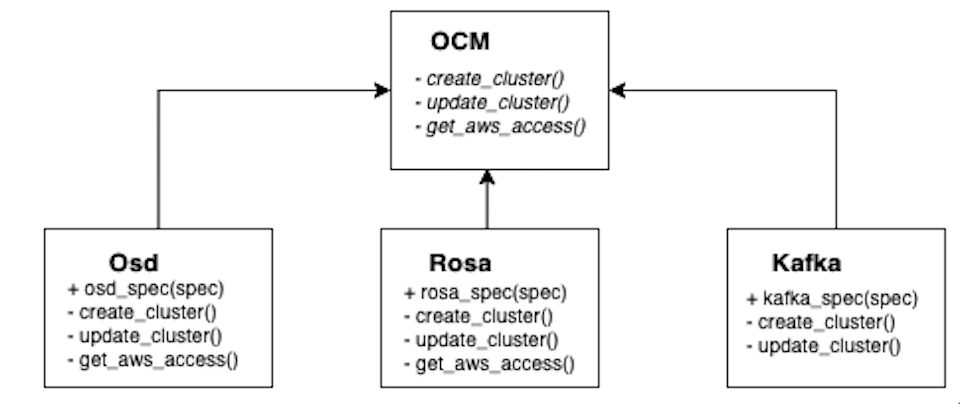
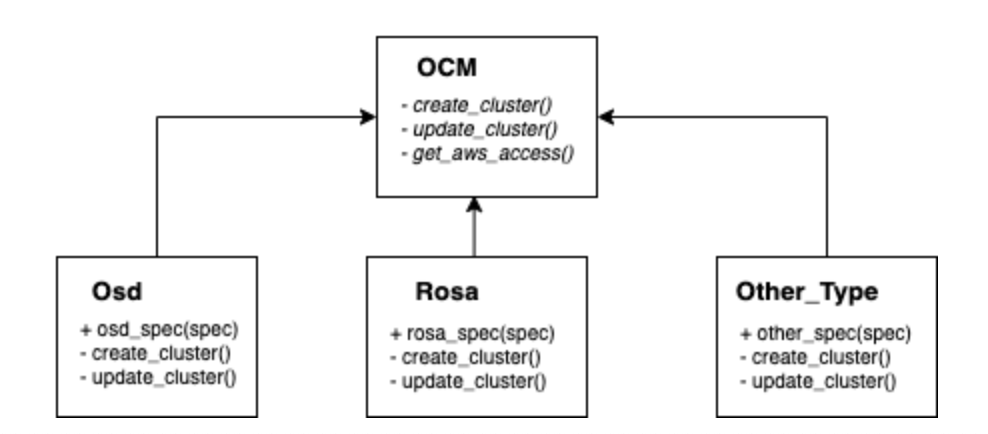
Remove context information

Changed region(s): [[0.0312, 0.0, 1.0, 0.9802], [0.625, 0.0297, 0.6562, 0.0594]]

diff --git a/docs/app-sre/design-docs/app-interface-rosa-support.md b/docs/app-sre/design-docs/app-interface-rosa-support.md
@@ -13,14 +13,8 @@ Jordi Piriz / 2022-04-18
 ## Problem Statement
 
 As part of hypershift support, we need to be able to support openshift ROSA clusters through
-app-interface.
-
-ROSA deployment model uses the customer account to provision all the openshift components
-(both control plane and data plane). Clusters' provisioning and administration are based on the
-`ROSA cli` tool along with `OCM`.
-
-App-interface only supports `OSD` clusters with the current implementation. Some enhancements are
-needed to support `ROSA` clusters.
+app-interface. Our current `OCM` code only supports`OSD` type clusters. Some enhancements are
+needed to support `ROSA` or other cluster types.
 
 ## Goals
 
@@ -30,113 +24,15 @@ needed to support `ROSA` clusters.
 ## Non-Goals
 
 - Define Hypershift topology/deployments
+- ROSA clusters deployment through app-interface. As OCM team is actively working on supporting ROSA
+  deployments entirely. The cluster creation part will be set on hold until they finish. Clusters creation
+  will be covered in an additional design doc if applies.
 
-## ROSA provisioning details
-
-### ROSA Installation overview
-
-As `ROSA` supports STS operational mode which does not interfere with app-interface in any way, we are going
-to support this operational model only. This does not prevent using additional access keys by the services
-if needed.
-
-Steps to provision a `ROSA`cluster. All Steps are subcommands of `ROSA cli`.
-
-1. Configure AWS Account
-
-    The account where the cluster is going to be deployed needs some configuration like creating the IAM
-    roles for the cluster installation along with some Quotas and Service Control policies verifications.
-
-2. Launch Cluster Installation.
-
-    Cluster Installation is orchestrated from `OCM` but the installation request and some additional steps
-    need `ROSA cli`. `OCM` is being improved right now to support `ROSA` and it's possible `ROSA` could be
-    fully managed through `OCM` in the future.
-
-3. Pre-Installation Steps
-
-    These steps are created just after the cluster creation request. Cluster installation waits until these steps
-    are done.
-
-        - Create an OIDC provider. An OIDC provider is required for STS/openshift authentication.
-        - Create the operator Roles. RedHat operator roles that will be used by RH to support the cluster.
-
-4. Create the admin user
-    The first admin user needs to be created with `ROSA cli`. An auth provider can be bound to the cluster
-    to add user/roles too.
-
-### Cluster configuration changes
-
-Cluster configuration changes are a bit different than in `OSD`, for example, load balancers quota or storage
-assignment do not apply to `ROSA` as all the components reside in the customer AWS account. The following list
-enumerates the app-interface allowed cluster updates and if they are supported with `ROSA`
-
-- instance_type: This is supported in our ocm code but does not seem possible without creating a new machine pool
-  as described [here](https://docs.openshift.com/dedicated/osd_cluster_create/creating-an-aws-cluster.html)
-- storage (Quota): N/A. The customer account provides the storage.
-- load_balancers (Quota): N/A. Load balancers are deployed in the customer account
-- private: Not supported in ROSA. After cluster creation, a cluster can not be changed to private
-- channel: Supported. Updates are managed through `OCM`. We will use our current updates system
-- autoscale: Supported (OCM)
-- nodes(nodeCount): Supported (OCM)
-- machinePools: Supported (OCM)
-
-**IMPORTANT**: All the cluster modifications are available through `OCM`.
-
-### Clusters location
-
-We should consider using a separate AWS account to host our `ROSA` clusters. Splitting workloads into separate
-accounts is a good and recommended practice from a security point of view. Taking into account that we will barely
-need to access cluster infrastructure resources, deploying clusters in a separate aws account other than the AppSre
-main account makes sense.
-
-`ROSA` recommendation is to install one cluster per vpc but is possible to share a vpc among various clusters
-using different subnetworks. As VPC quota can be increased to hundreds, 1 cluster per vpc is the way to go
-for us. It simplifies the network configuration.
-
-Even though it's possible, having multiple clusters per account adds complexity in the AWS resource permissions
-management. For example, tenants access to Cloudwatch in shared accounts would need to be improved to efficiently
-separate access to logroups of other tenants. This can be extended to all the resources in the accounts.
-2
-For coherence and to continue using the same approach, we will use a cluster per account like in OSD. Accounts
-do not add additional costs and we would have the resources isolation without the need of changing the permissions
-management.
-
-## APP Interface management
-
-### Cluster Installation
-
-`ROSA` installation `OCM` support is being improved right now, there were changes in the process even while
-writing this doc.
-
-As we need to do a cluster onboarding to support new clusters, the most logical approach is to use `ROSA cli`
-**manually** and once the cluster is created, add the cluster spec file and manage the cluster operations through
-app-interface. Adding machinepools, changing nodecount or changing autoscaling values are available with `OCM` and
-that is already implemented in app-interface.
-
-There are various paths forward to implement the cluster creation such as adding golang integration leveraging
-the `ROSA cli` codebase or creating a `ROSA cli` wrapper integration. But, as it seems `OCM` will end up supporting
-the whole process, we could just hold off and wait until the `OCM` support is completed.
-
-If we have the urge to provision a lot of clusters we can re-evaluate this approach.
-
-### Roles
-
-ROSA works the same way as `OSD`. `cluster-admin` and `dedicated-admin` exist in the cluster.
-
-### Schema changes
-
-- Convert `Cluster` type to an interface. As `OCM` supports various types of cluster types and there is a need in AI
-  to support some of them, it's worth having diferentiated specs for each cluster type. We will have `OSD` and `ROSA`
-  but this could be extended with future offerings (Hypershift, KCP...), so adding separate types makes sense at
-  this point.
-
-- Add a `product` attribute to identify the cluster type. `product` is already part of `OCM` api spec and is used to
-  identify the cluster type. We could use the same approach in our cluster specs. This attribute will be used to identify
-  the graphql subtypes and to instantiate the right OCM implementation.
+## Proposals
 
 ### OCM code changes
 
-Our OCM code is very tight to OSD-type clusters. Some changes are needed:
+Our OCM code is very focused to OSD-type clusters. Some changes are needed:
 
 - Getting the clusters spec: Our current approach takes `OSD` related fields as mandatory but those are
   not set in `ROSA` or other types.
@@ -157,54 +53,66 @@ The code changes to do this seems located in the `ocm.py` file, the integrations
 the `OCM_Map` class. This needs a more deep view but at first, seems that with the clusters' initialization
 an additional object could be set to add the product implementation object.
 
-Kafka clusters are a good candidate for an additional cluster type, right now they are managed separately with
-its integration and schema. But in the end, they are an additional cluster type and from a model point of
-view, it would be more precise to manage them as clusters and let the implementation do the required steps.
-
 About the AWSInfrastructureAccess, as the accounts are managed by us, we could mimic how we are managing
 `OSD` aws accounts. Creating both `read-only` and `network-mgmt` roles in the destination account and adding
-the IAM policies when new accesses need to be granted. This logic will need to use `AWScli` instead of `OCM`.
-Following this path, all terraform integrations that use the role assumptions will still work the same way as
-of now.
+the IAM policies when new accesses need to be granted. There are 2 things to consider.
+
+1.- Users access to the account. These accesses will be managed by app-interface through aws groups and the
+  terraform-users integration.
+2.- Terrafom integrations will leverage the `assume-role` feature to get the `network-mgmt` role in the account.
+  This approach has been used in Fedramp.
 
 <img src="../assets/rosa_ocm_diagram.png" width="600"/>
 
-#### Alternatives considered
+### Schema changes
 
-##### Conditional branching
+- Convert `Cluster` type to an interface. As `OCM` supports various types of cluster types and there is a need in AI
+  to support some of them, it's worth having diferentiated specs for each cluster type. We will have `OSD` and `ROSA`
+  but this could be extended with future offerings (Hypershift, KCP...), so adding separate types makes sense at
+  this point.
+
+- Add a `product` attribute to identify the cluster type. `product` is already part of `OCM` api spec and is used to
+  identify the cluster type. We could use the same approach in our cluster specs. This attribute will be used to identify
+  the graphql subtypes and to instantiate the right OCM implementation.
+
+### Clusters location
+
+ROSA clusters will be set in dedicated aws account to host this clusters. Each cluster will be deployed in its own VPC.
+
+### OCM Integrations summary
+
+- ocm_additional_routers: Not supported in ROSA. ROSA clusters will be excluded from this integration
+- ocm_addons: Supported. No changes needed.
+- ocm_aws_infrastructure_access: N/A to ROSA. ROSA clusters will be excluded from this integration.
+- ocm_clusters: This integration will be changed to use product specific OCM code.
+- ocm_external_configuration_labels: Supported. No changes needed
+- ocm_github_idp: Supported. No changes needed.
+- ocm_groups: Supported. No changes needed.
+- ocm_machine_pools: Supported. No changes needed.
+- ocm_upgrade_scheduler: Needs to be updated to support STS version gates. [REF](https://github.com/app-sre/qontract-reconcile/blob/master/reconcile/utils/ocm.py#L856)
+
+## Alternatives considered
+
+### OCM code conditional branching
 
 A possible way is to branch the code with if/else and manage `ROSA` clusters with additional paths. I consider this
 a bad design as all the code would need to be modified if a new cluster type needs to be supported in the future.
 On the contrary, adding separate implementations leads to a clean approach and adds maintainability to the code.
 
-##### Separate methods in the OCM module
+### Separate methods in the OCM module
 
 Such as kafka clusters, managing `ROSA` with additional methods is a viable way. I think it's better for the sake of
 code comprehension, maintainability and coherence to just have different types under the cluster meta type with its
-separate implementations. Following this path does not completely fit, because not all `ROSA` required logic is
-implemented or brought by OCM.
-
-### Current OCM integrations
-
-- ocm_additional_routers: Not supported in ROSA.
-- ocm_addons: Supported
-- ocm_aws_infrastructure_access: Implement the same roles as in OSD, network-mgmt, and read-only.
-- ocm_clusters: Split integration to per-cluster type.
-- ocm_external_configuration_labels: Supported.
-- ocm_github_idp: Supported. We could use the same approach as in OSD.
-- ocm_groups: Supported. dedicated-admin could be assigned the same way.
-- ocm_machine_pools: Supported
-- ocm_upgrade_scheduler: Needs to be updated to support STS version gates. [REF](https://github.com/app-sre/qontract-reconcile/blob/master/reconcile/utils/ocm.py#L856)
+separate implementations.
 
 ## Decissions made
 
 - Cluster installation logic will be set on hold until the OCM implementation is done.
-- We will use 1 AWS account per cluster like in OSD. This way we will have the clusters isolated.
-- We are going to manage the clusters with the same roles we are using for `OSD`. `dedicated-admin` and `cluster-admin`
-- Aws infra access logic will be the same used with `OSD`. `read-only` and `network-mgmt` roles. This logic will be
-  implemented with AWS api directly (Not supported by OCM)
-- 1 level of abstraction will be added to the ocm code to support multiple types of clusters.
-- ROSA will have its own clusters integration
+- ROSA clusters will be deployed in a dedicated aws account owned by APPSRE.
+- Clusters' access will be managed the same way as `OSD`. `dedicated-admin` and `cluster-admin` roles.
+- Aws infra access will follow the same approach used in fedRamp.
+  - Users access will be granted through terraform_users integration
+  - Terraform access will leverage `assume-role` feature in the destination account.
 
 ## Changes list summary
 
@@ -212,14 +120,13 @@ implemented or brought by OCM.
   Each cluster definition will only have its necessary attributes.
 - Update the `ocm` code to manage different cluster implementations (OSD and ROSA). This step will open the way to
   support other `ocm` cluster implementations in the future.
-- Split `ocm_clusters` integration into `osd_clusters` and `rosa_clusters`.
-- Implement `AWS` STS roles management for `ROSA` cluster accounts with the `AWS api`
+- Change `ocm_clusters` integration into support `ROSA` and `OSD` cluster types.
 - Create an additional account to host AppSRE `ROSA` clusters.
 - Update SOPS to include `ROSA` type clusters onboarding to app-interface
 
 ## Milestones
+
 1.- Adapt OCM library and integrations to work with different OCM implementations
-1.1.- Add OSD OCM Implementation
 2.- Add ROSA OCM Implementation. Test all functionalities
 3.- Update OCM documentation, SOPS, etc to include ROSA clusters.
 3.- Add a ROSA Cluster to APP-Interface.
